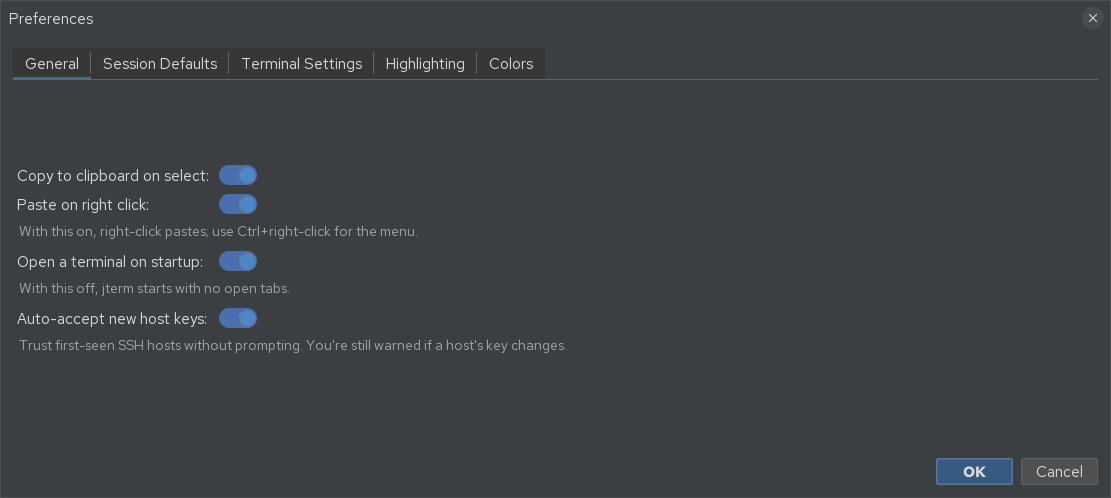
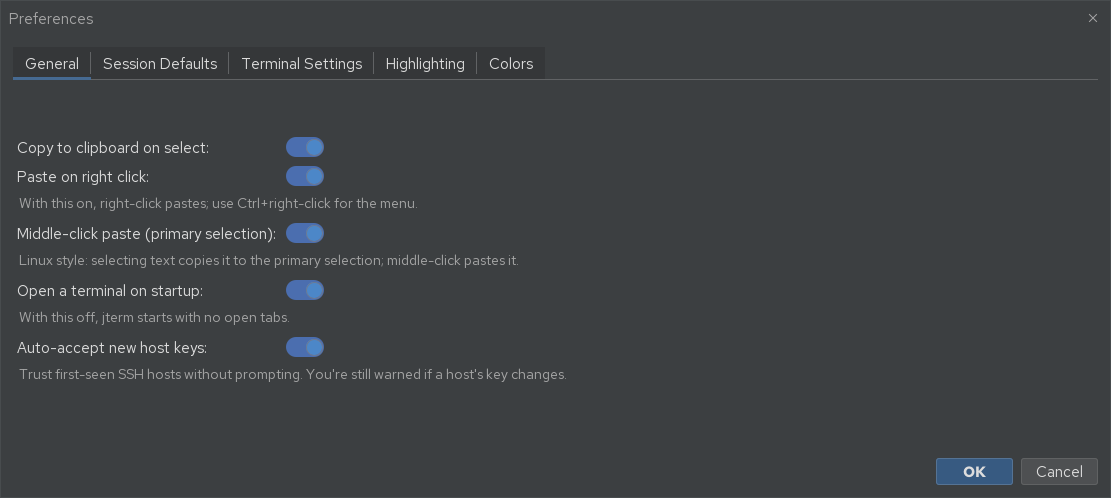
Added linux style copy-select to primary and middle mouse button paste from primary support

diff --git a/src/main/java/com/katmoda/jterm/config/AppSettings.java b/src/main/java/com/katmoda/jterm/config/AppSettings.java
@@ -46,6 +46,13 @@ public final class AppSettings {
     private boolean copyOnSelect = false;
     private boolean pasteOnRightClick = false;
 
+    // Whether the X11 primary-selection model is emulated: selecting text copies it to the PRIMARY
+    // selection and a middle-click pastes from it. Read live by the terminal settings provider
+    // (JediTerm's copyOnSelect/pasteOnMiddleMouseClick), so toggling takes effect without recreating
+    // panes. Defaults off (the app's original behavior). Independent of copyOnSelect above, which
+    // targets the regular clipboard.
+    private boolean middleClickPaste = false;
+
     // Terminal scrollback size in lines, read by the settings provider when each new widget's
     // buffer is built (so it applies to newly opened terminals). Clamped to
     // [MIN_SCROLLBACK_LINES, MAX_SCROLLBACK_LINES]. Defaults to 10000; a settings file predating
@@ -129,6 +136,14 @@ public final class AppSettings {
 
     public void setPasteOnRightClick(boolean pasteOnRightClick) {
         this.pasteOnRightClick = pasteOnRightClick;
+    }
+
+    public boolean isMiddleClickPaste() {
+        return middleClickPaste;
+    }
+
+    public void setMiddleClickPaste(boolean middleClickPaste) {
+        this.middleClickPaste = middleClickPaste;
     }
 
     /**
@@ -332,7 +347,7 @@ public final class AppSettings {
                 globalHighlightListId, darkTheme, windowMaximized, sidebarWidth,
                 windowX, windowY, windowWidth, windowHeight,
                 defaultUsername, defaultTabColorHex, openTerminalOnStartup,
-                defaultKeyPath, autoAcceptNewHostKeys, scrollbackLines));
+                defaultKeyPath, autoAcceptNewHostKeys, scrollbackLines, middleClickPaste));
     }
 
     private static AppSettings load() {
@@ -392,6 +407,9 @@ public final class AppSettings {
             if (p.scrollbackLines != null) {
                 settings.setScrollbackLines(p.scrollbackLines);
             }
+            if (p.middleClickPaste != null) {
+                settings.middleClickPaste = p.middleClickPaste;
+            }
         }
         return settings;
     }
@@ -411,6 +429,7 @@ public final class AppSettings {
                              Integer windowWidth, Integer windowHeight,
                              String defaultUsername, String defaultTabColorHex,
                              Boolean openTerminalOnStartup, String defaultKeyPath,
-                             Boolean autoAcceptNewHostKeys, Integer scrollbackLines) {
+                             Boolean autoAcceptNewHostKeys, Integer scrollbackLines,
+                             Boolean middleClickPaste) {
     }
 }

diff --git a/src/main/java/com/katmoda/jterm/ui/preferences/PreferencesDialog.java b/src/main/java/com/katmoda/jterm/ui/preferences/PreferencesDialog.java
@@ -73,6 +73,7 @@ public final class PreferencesDialog {
 
         ToggleSwitch copyOnSelect = new ToggleSwitch(settings.isCopyOnSelect());
         ToggleSwitch pasteOnRightClick = new ToggleSwitch(settings.isPasteOnRightClick());
+        ToggleSwitch middleClickPaste = new ToggleSwitch(settings.isMiddleClickPaste());
         ToggleSwitch openTerminalOnStartup = new ToggleSwitch(settings.isOpenTerminalOnStartup());
         ToggleSwitch autoAcceptNewHostKeys = new ToggleSwitch(settings.isAutoAcceptNewHostKeys());
         JPanel general = new JPanel(new GridBagLayout());
@@ -80,6 +81,9 @@ public final class PreferencesDialog {
         addToggleRow(general, row++, "Copy to clipboard on select:", copyOnSelect);
         addToggleRow(general, row++, "Paste on right click:", pasteOnRightClick);
         addHint(general, row++, "With this on, right-click pastes; use Ctrl+right-click for the menu.");
+        addToggleRow(general, row++, "Middle-click paste (primary selection):", middleClickPaste);
+        addHint(general, row++, "Linux style: selecting text copies it to the primary selection;"
+                + " middle-click pastes it.");
         addToggleRow(general, row++, "Open a terminal on startup:", openTerminalOnStartup);
         addHint(general, row++, "With this off, jterm starts with no open tabs.");
         addToggleRow(general, row++, "Auto-accept new host keys:", autoAcceptNewHostKeys);
@@ -189,6 +193,7 @@ public final class PreferencesDialog {
         }
         settings.setCopyOnSelect(copyOnSelect.isSelected());
         settings.setPasteOnRightClick(pasteOnRightClick.isSelected());
+        settings.setMiddleClickPaste(middleClickPaste.isSelected());
         settings.setOpenTerminalOnStartup(openTerminalOnStartup.isSelected());
         settings.setAutoAcceptNewHostKeys(autoAcceptNewHostKeys.isSelected());
         settings.setDefaultTerminalType(terminalDefaults.terminalType());

diff --git a/src/main/java/com/katmoda/jterm/ui/theme/JTermSettingsProvider.java b/src/main/java/com/katmoda/jterm/ui/theme/JTermSettingsProvider.java
@@ -150,6 +150,23 @@ public final class JTermSettingsProvider extends DefaultSettingsProvider {
         return AppSettings.get().getScrollbackLines();
     }
 
+    /**
+     * X11 primary-selection emulation, driven by the {@code middleClickPaste} preference and read
+     * live at each mouse event. When on, selecting text copies it to the PRIMARY selection and a
+     * middle-click pastes from it — JediTerm's own {@code copyOnSelect}/{@code pasteOnMiddleMouseClick}
+     * plumbing (via {@code Toolkit.getSystemSelection()}) does the work. One preference gates both:
+     * the primary-selection model needs the select-side write and the middle-click read together.
+     */
+    @Override
+    public boolean copyOnSelect() {
+        return AppSettings.get().isMiddleClickPaste();
+    }
+
+    @Override
+    public boolean pasteOnMiddleMouseClick() {
+        return AppSettings.get().isMiddleClickPaste();
+    }
+
     @Override
     public ColorPalette getTerminalColorPalette() {
         return palette;

diff --git a/docs/preferences.md b/docs/preferences.md
@@ -10,8 +10,9 @@ toggle and the keyboard-shortcut editor live in the **Preferences** menu too —
 
 | Setting | Effect |
 |---------|--------|
-| **Copy to clipboard on select** | Selecting text in the terminal copies it automatically. |
+| **Copy to clipboard on select** | Selecting text in the terminal copies it automatically to the regular clipboard. |
 | **Paste on right click** | Right-click pastes. With this on, use ++ctrl++ + right-click for the context menu instead. |
+| **Middle-click paste (primary selection)** | The Linux X11 convention: selecting text copies it to the *primary selection*, and a middle-click pastes it. Independent of, and separate from, the regular clipboard above. |
 | **Open a terminal on startup** | When off, jterm starts with no open tabs. |
 | **Auto-accept new host keys** | Trust first-seen SSH hosts without prompting. You are still warned if a known host's key *changes*. |
 
